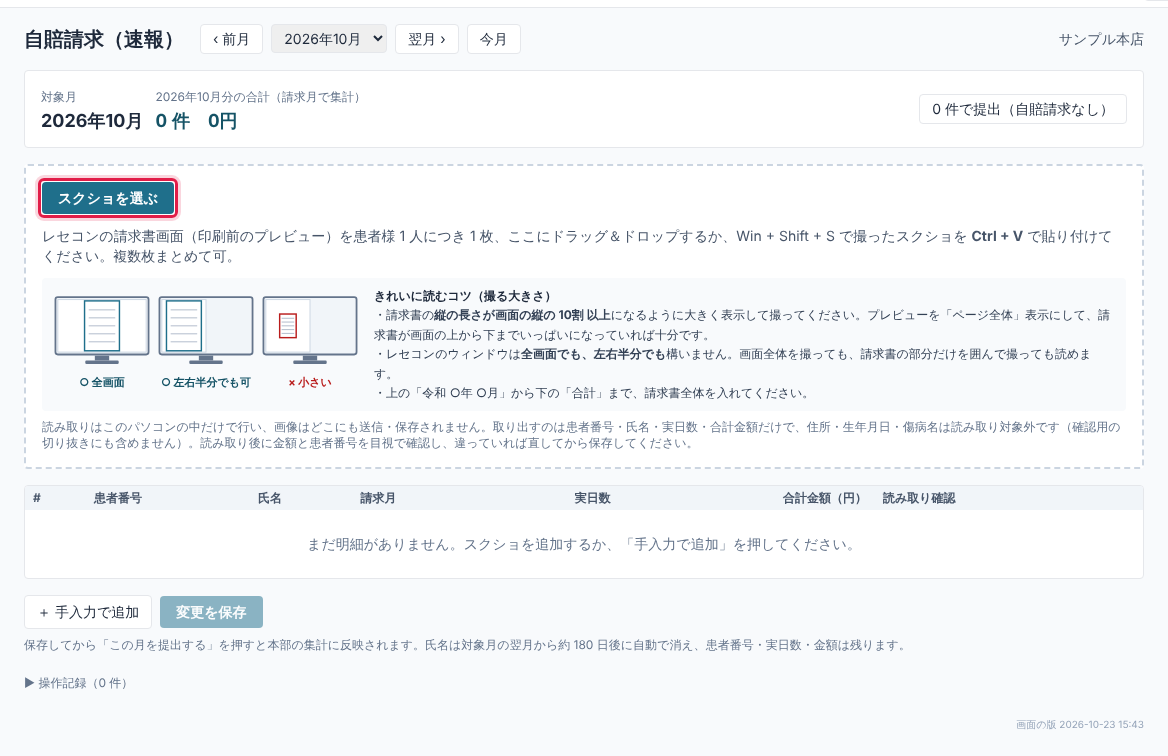
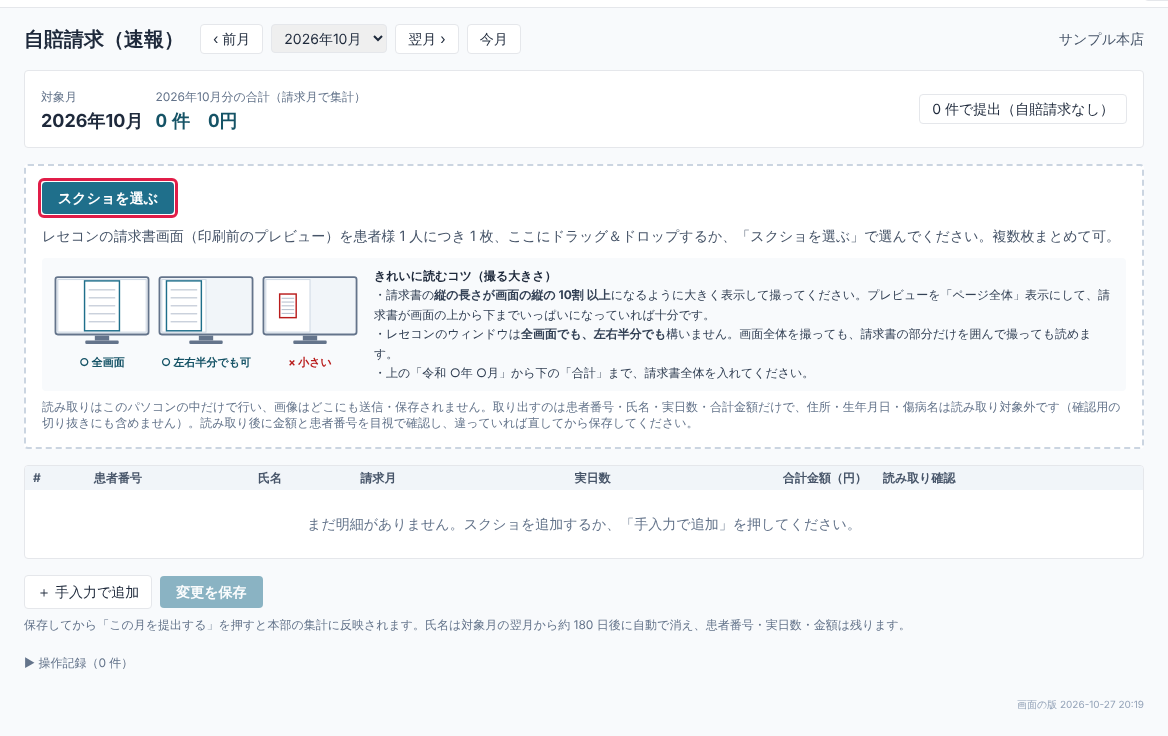
自賠請求のページの説明から Ctrl + V の表記を外す（使い方の写真も撮り直し）
Claude-Session: https://claude.ai/code/session_016VcLtARMBSKX4LLntfocHn

diff --git a/xserver/frontend/src/pages/admin/JibaiPage.tsx b/xserver/frontend/src/pages/admin/JibaiPage.tsx
@@ -294,7 +294,7 @@ export default function JibaiPage() {
           <div className="flex flex-wrap items-center gap-3">
             <button type="button" onClick={() => fileInput.current?.click()} className="rounded bg-brand px-4 py-1.5 font-bold text-white">スクショを選ぶ</button>
             <input ref={fileInput} type="file" accept="image/png,image/jpeg,image/webp" multiple className="hidden" onChange={(e) => { addFiles(Array.from(e.target.files ?? []).map((f) => ({ file: f, name: f.name }))); e.target.value = ''; }} />
-            <span className="text-slate-600">レセコンの請求書画面（印刷前のプレビュー）を患者様 1 人につき 1 枚、ここにドラッグ＆ドロップするか、Win + Shift + S で撮ったスクショを <b>Ctrl + V</b> で貼り付けてください。複数枚まとめて可。</span>
+            <span className="text-slate-600">レセコンの請求書画面（印刷前のプレビュー）を患者様 1 人につき 1 枚、ここにドラッグ＆ドロップするか、「スクショを選ぶ」で選んでください。複数枚まとめて可。</span>
           </div>
           <JibaiSizeGuide />
           {(progress || queueLeft > 0) && <OcrProgressBar message={progress ?? '読み取り待ち…'} pct={pct} total={batchView.total} done={batchView.done} msPer={batchView.msPer} queueLeft={queueLeft} />}

diff --git a/xserver/frontend/src/lib/guide.ts b/xserver/frontend/src/lib/guide.ts
@@ -254,7 +254,7 @@ export const GUIDE: GuideArticle[] = [
     lead: '自賠責の請求を、レセコンの請求書の画面（スクショ）から読み取って登録し、月ごとに本部へ提出します。',
     steps: [
       { text: '上のメニューの「**自賠請求**」を開き、対象の月を選びます。' },
-      { text: 'レセコンの請求書の画面を **Win + Shift + S** で撮り、**Ctrl + V** で貼り付けるか、「**スクショを選ぶ**」で選びます（何枚でも）。進み具合が ％ で出ます。', img: 'jibai-1.png' },
+      { text: 'レセコンの請求書の画面のスクショを、「**スクショを選ぶ**」で選ぶか、ドラッグ＆ドロップで入れます（何枚でも）。進み具合が ％ で出ます。', img: 'jibai-1.png' },
       { text: '読み取った **患者番号・氏名・請求月・実日数・金額** を見比べて、違っていれば直し、「**変更を保存**」を押します。' },
       { text: '全部入れたら「**この月を提出する**」。自賠請求がない月は「0 件で提出」。直したいときは「提出を取り消す」。' },
     ],

diff --git a/xserver/frontend/src/changelog.ts b/xserver/frontend/src/changelog.ts
@@ -5,6 +5,10 @@ export interface ChangeEntry { id: number; date: string; title: string; audience
 
 export const CHANGELOG: ChangeEntry[] = [
   {
+    id: 82, date: '2026-10-27', title: '自賠請求の説明の文言', audience: ['店舗', '本部'],
+    items: ['自賠請求のページの説明から「Ctrl + V で貼り付け」の表記を外しました（スクショは「スクショを選ぶ」かドラッグ＆ドロップで入れます）。'],
+  },
+  {
     id: 81, date: '2026-10-27', title: 'ブロックの提案：過ぎた時間には出さない', audience: ['店舗', '本部'],
     items: ['新規・再来ブロックの提案が、今日のもう過ぎた時間（担当が重なっていた時間）にも出ていたのを直しました。過ぎた日・過ぎた時間には提案を出しません（承認済みのブロックはそのまま残ります）。'],
   },
